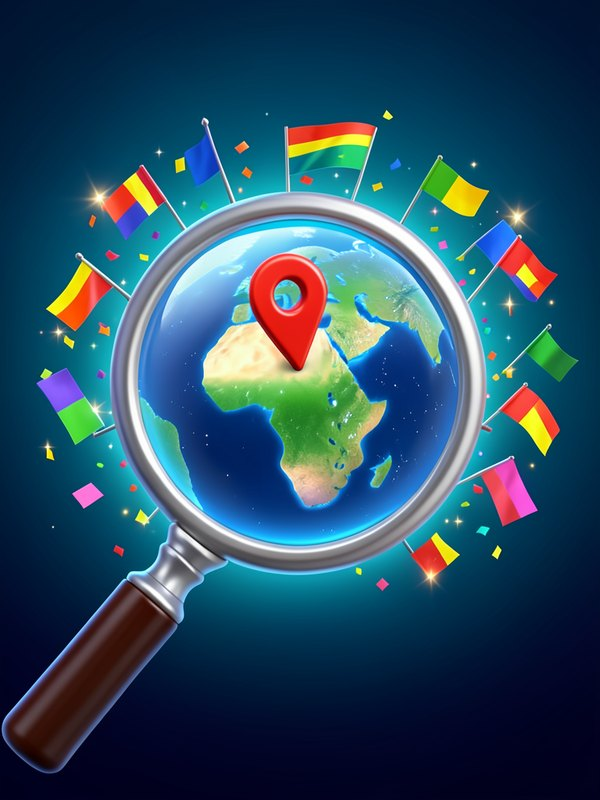
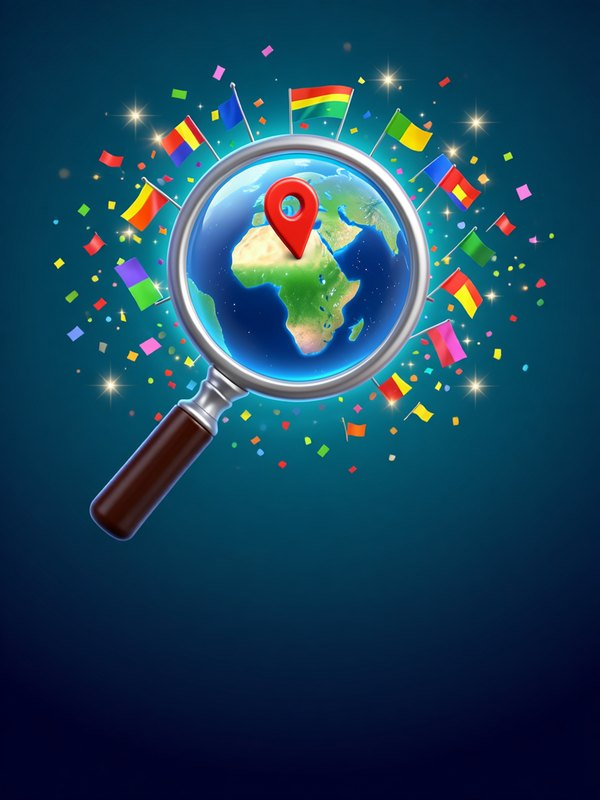
Geo Quiz: capa com globo mais alto (titulo nao cobre) + imagem de compartilhar 1200x630

diff --git a/geo-quiz/index.html b/geo-quiz/index.html
@@ -18,8 +18,10 @@
 <meta property="og:title" content="Geo Quiz">
 <meta property="og:description" content="A 3D globe drops a pin on a country - can you pick its flag?">
 <meta property="og:url" content="https://bartelgames.com.br/geo-quiz/">
-<meta property="og:image" content="https://bartelgames.com.br/geo-quiz/assets/icon.png">
-<meta name="twitter:card" content="summary">
+<meta property="og:image" content="https://bartelgames.com.br/geo-quiz/assets/og.jpg?v=1">
+<meta property="og:image:width" content="1200">
+<meta property="og:image:height" content="630">
+<meta name="twitter:card" content="summary_large_image">
 <link rel="preconnect" href="https://fonts.googleapis.com">
 <link rel="preconnect" href="https://fonts.gstatic.com" crossorigin>
 <link href="https://fonts.googleapis.com/css2?family=Baloo+2:wght@800&display=swap" rel="stylesheet">

diff --git a/index.html b/index.html
@@ -45,7 +45,7 @@
     <div class="grid">
       <a class="card" href="geo-quiz/" data-game="guess-the-flag">
         <div class="thumb">
-          <img class="cover" src="geo-quiz/assets/cover.jpg?v=1" alt="" width="600" height="800">
+          <img class="cover" src="geo-quiz/assets/cover.jpg?v=2" alt="" width="600" height="800">
           <span class="cover-t" aria-hidden="true"><span>Geo</span><span>Quiz</span></span>
         </div>
         <div class="info">
